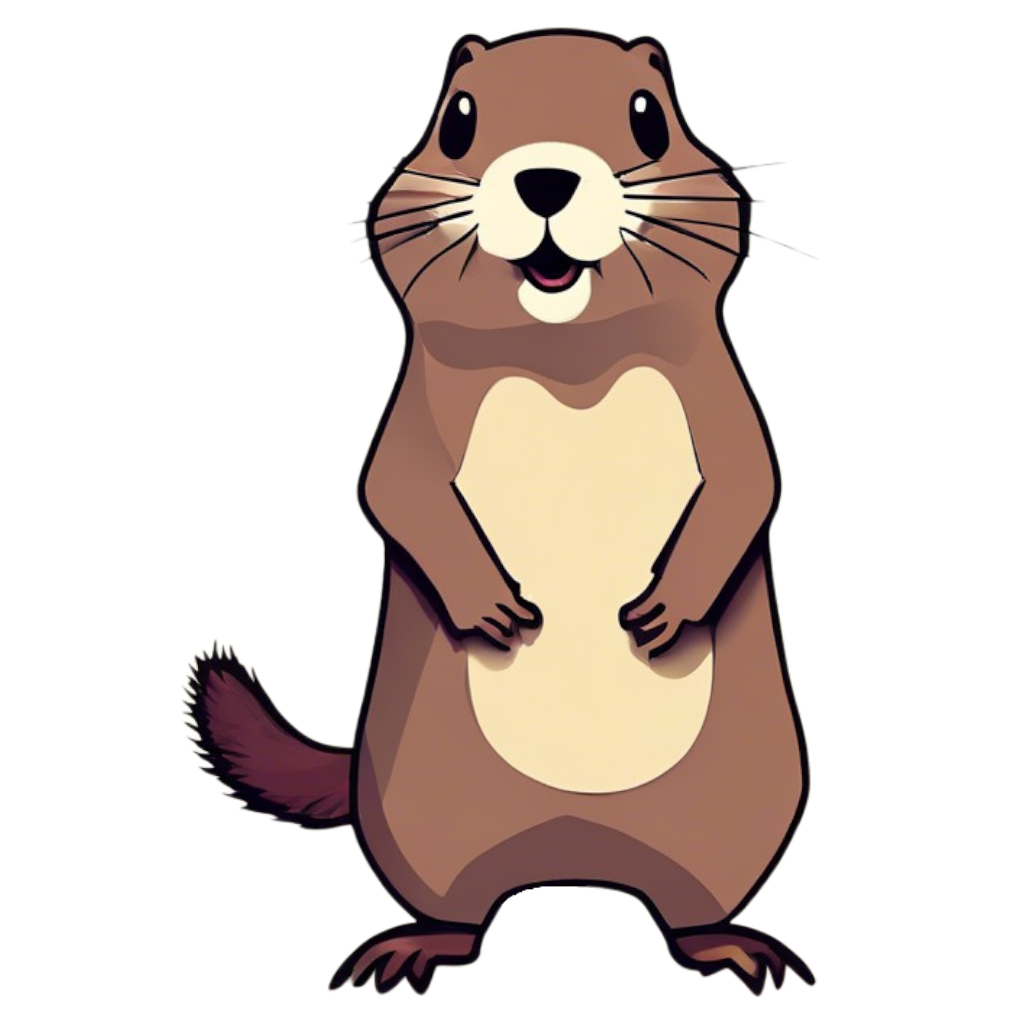
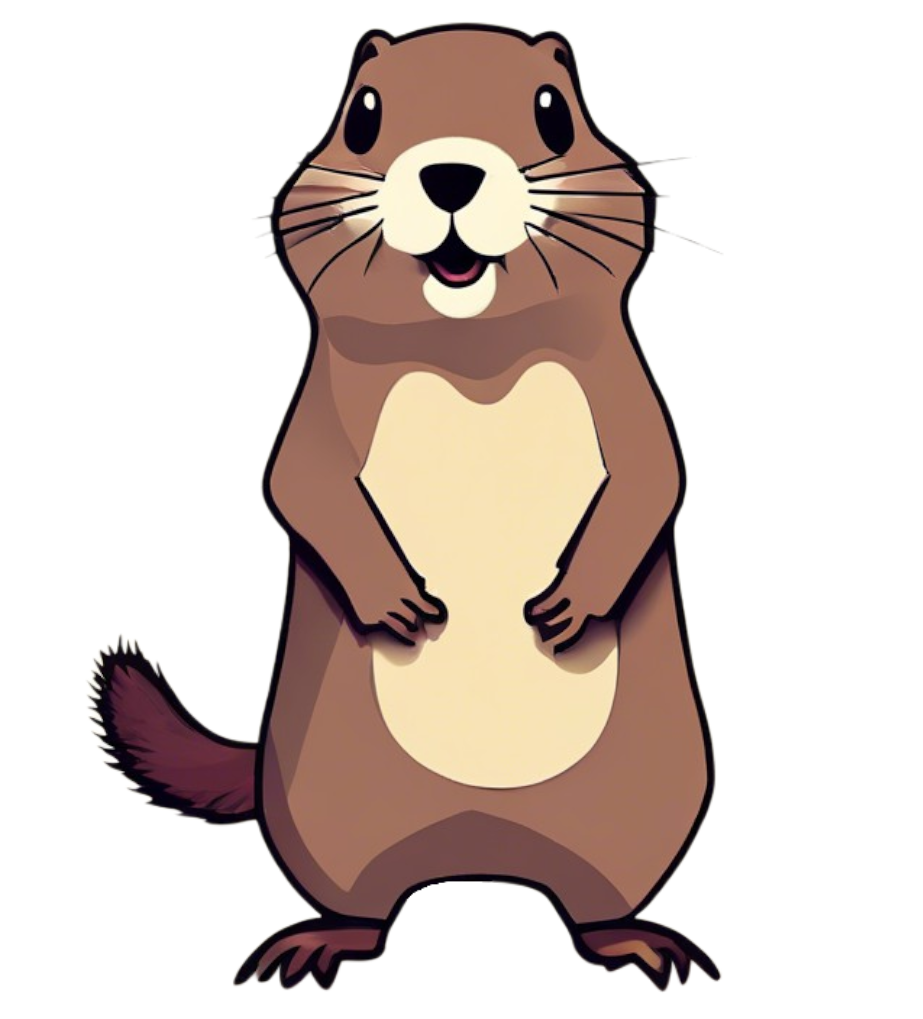
feature/positioning: fixed character position and home page container

Changed region(s): [[0.091, 0.0, 0.8191, 0.9735]]

diff --git a/src/components/Character/Character.styles.ts b/src/components/Character/Character.styles.ts
@@ -8,7 +8,7 @@ export const Wrapper = styled.div`
   justify-content: center;
 
   width: 100%;
-  height: 70%;
+  height: calc(100vh -84px);
   min-height: 600px;
   max-height: 800px;
 
@@ -30,5 +30,5 @@ export const ClothesItem = styled.img<{ x: number; y: number }>`
 `;
 
 export const Character = styled.img`
-  width: 400px;
+  width: 340px;
 `;
